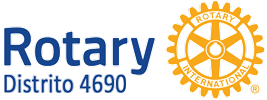
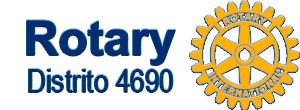
se recalibro imagenes de presentacion del portal

diff --git a/portal/templates/portal/index.html b/portal/templates/portal/index.html
@@ -56,8 +56,8 @@
                         </button>
     
                         <!-- LOGO -->
-                        <a class="navbar-brand logo" href="index.html">
-                            <img src="{% static 'frontend/images/favirotaryo.png' %}" alt="">
+                        <a class="navbar-brand logo p-t-0" href="index.html">
+                            <img src="{% static 'frontend/images/Rotarylogo300.png' %}" alt="" class="img-responsive">
                         </a>
     
                     </div>
@@ -107,11 +107,8 @@
                                     <h3 class="font-light text-white titulo-sombra">ORURO 2018</h3>
                                     <h4 class="text-white">Del 31 de Mayo al 3 de Junio</h4>
                                     <div class="row">
-                                        <div class="col-sm-6">
-                                            <h2><img src="{% static 'frontend/images/RD4690.png' %}" class="img-responsive" alt=""></h2>
-                                        </div>
-                                        <div class="col-sm-6">
-                                            <h2><img src="{% static 'frontend/images/RMD.png' %}" class="img-responsive" alt=""></h2>
+                                        <div class="col-sm-12 col-xs-12">
+                                            <h2><img src="{% static 'frontend/images/rotarycompleto.png' %}" class="img-responsive" alt=""></h2>
                                         </div>
                                     </div>
                                     <div id="navbar-menu" class="m-t-20">

diff --git a/portal/templates/portal/pago.html b/portal/templates/portal/pago.html
@@ -24,6 +24,9 @@
             </div>
         </div>
     </div>
+    {% if request.user.is_staff %}
+
+    {% else %}
     <div class="row m-t-10">
         <div class="col-sm-12">
             <div class="card-box table-responsive">
@@ -58,9 +61,7 @@
             </div>
         </div>
     </div>
-    <div class="row">
-
-    </div>
+    {% endif %}
 {% endblock %}
 
 {% block javascript %}

diff --git a/manage.py b/manage.py
@@ -3,8 +3,8 @@ import os
 import sys
 
 if __name__ == "__main__":
-    os.environ.setdefault("DJANGO_SETTINGS_MODULE", "rotary.serverset")
-    #os.environ.setdefault("DJANGO_SETTINGS_MODULE", "rotary.settings")
+    #os.environ.setdefault("DJANGO_SETTINGS_MODULE", "rotary.serverset")
+    os.environ.setdefault("DJANGO_SETTINGS_MODULE", "rotary.settings")
     try:
         from django.core.management import execute_from_command_line
     except ImportError:

diff --git a/rotary/serverset.py b/rotary/serverset.py
@@ -26,7 +26,7 @@ SECRET_KEY = 'h!r5(6_dkny)$z%28uwqj3sa$yqjs#rf&b3ggxrdgsj5x=*^hb'
 # SECURITY WARNING: don't run with debug turned on in production!
 DEBUG = True
 
-ALLOWED_HOSTS = ["www.rotarysanmiguel.org", "localhost"]
+ALLOWED_HOSTS = ["www.rotarysanmiguel.org", "localhost", ".rotarysanmiguel.org"]
 
 
 # Application definition
